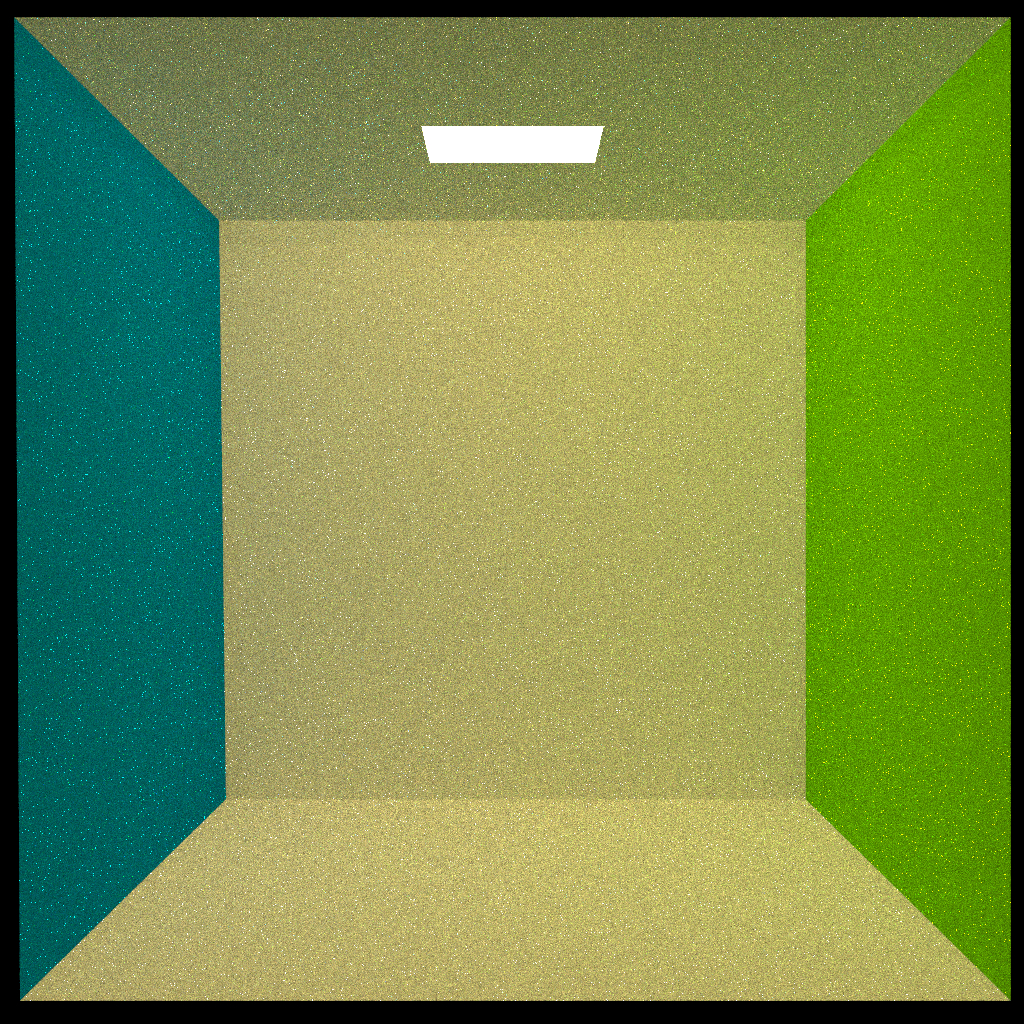
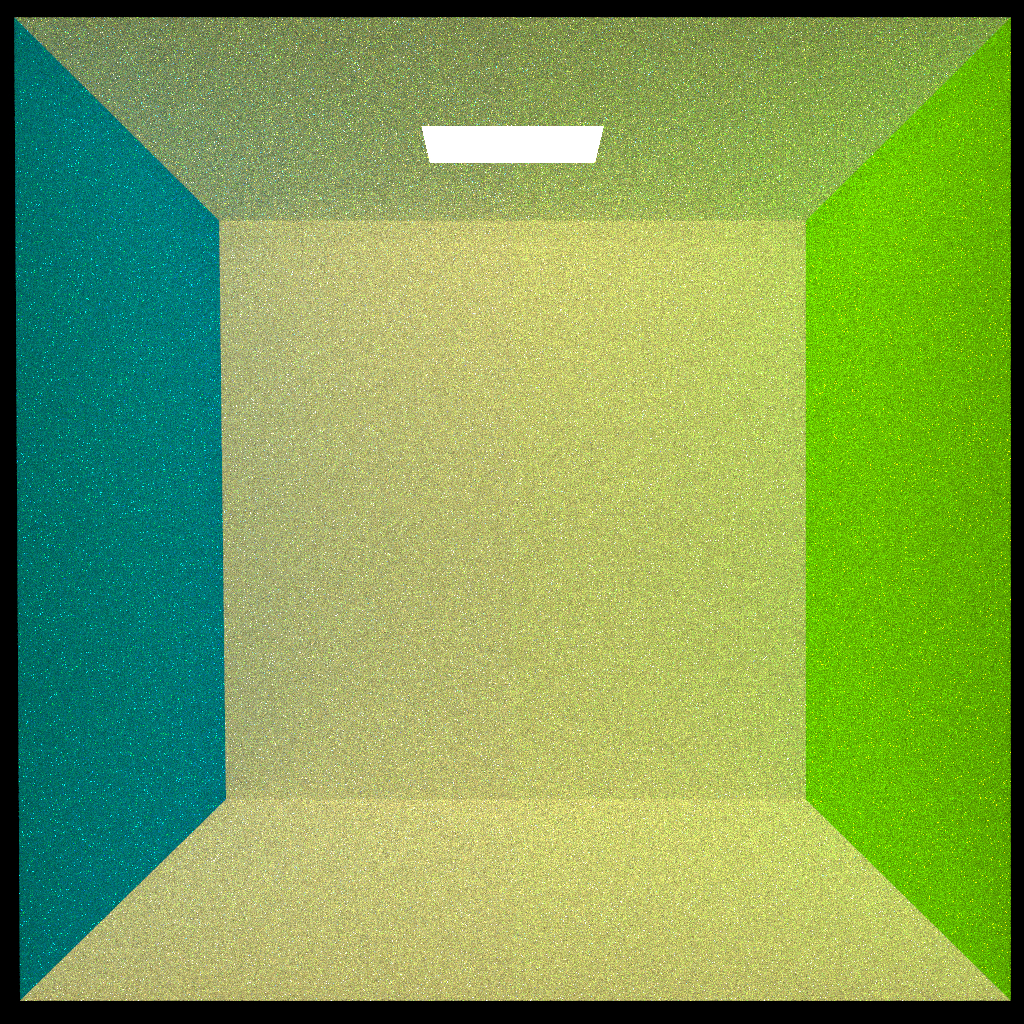
!!!

diff --git a/main.cpp b/main.cpp
@@ -100,7 +100,7 @@ int main() {
 
 				Ray r = cam->pixelRay(i, j);
 
-				if (i == 224 && j == cam->Height() - 197) {
+				if (i == 72 && j == cam->Height() - 37) {
 
 					bool xx = true;
 
@@ -363,6 +363,7 @@ vec3 MISCombine(std::vector<PathPoint>& cameraPath, vec3 cameraDirection, std::v
 	vec3 MISResult = vec3(0);
 	int* paths = new int[cameraPath.size() + lightPath.size()]();
 	vec3* pathResult = new vec3[cameraPath.size() + lightPath.size()]();
+	float* pathPDF = new float[cameraPath.size() + lightPath.size()]();
 	
 	for (int i = 0; i < cameraPath.size(); i++) {
 
@@ -410,6 +411,7 @@ vec3 MISCombine(std::vector<PathPoint>& cameraPath, vec3 cameraDirection, std::v
 				}
 
 				pathResult[i + j] += currentResult / (cameraPath[i].p * lightPath[j].p);
+				pathPDF[i + j] += (cameraPath[i].p * lightPath[j].p);
 
 			}
 
@@ -454,16 +456,17 @@ vec3 bidirectionalPathTracing(IntersectionPoint IP, vec3 wo) {
 	lightPath.clear();
 
 	light->uniformSampling(tmpIP);
-	lightPath.push_back(PathPoint(tmpIP, 1.0f / lightA));
+	lightPath.push_back(PathPoint(tmpIP, 1.0f / light->area()));
 	light->randomLightTracingRay(tmpIP, lightRay, p);
 	//p *= max(dot(lightRay.direction(), tmpIP.n), 0.0f);
 	lightPath.back().p /= max(dot(lightRay.direction(), tmpIP.n), 0.0f);
 	IT = intersectionTypeCheck(lightRay, tmpT, tmpIP);
+	//p /= tmpT * tmpT;
 	lightPath.back().p *= tmpT * tmpT;
+	RR = rand() * 1.0f / RAND_MAX;
+	if (IT == HITOBJECT && RR < RRThreshold) {
 
-	if (IT == HITOBJECT) {
-
-		lightPath.push_back(PathPoint(tmpIP, p * lightPath.back().p));
+		lightPath.push_back(PathPoint(tmpIP, p * RRThreshold * lightPath.back().p));
 		vec3 wi = lightRay.direction() * -1.0f;
 		vec3 wo;
 		RR = rand() * 1.0f / RAND_MAX;

diff --git a/material.h b/material.h
@@ -85,8 +85,8 @@ public:
         vec3 z = normalize(cross(y, wo));
         vec3 x = normalize(cross(y, z));
 
-        float sampleDiffuse = rand() * 1.0f / RAND_MAX;
-        //float sampleDiffuse = 0.0f;
+        //float sampleDiffuse = rand() * 1.0f / RAND_MAX;
+        float sampleDiffuse = 0.0f;
         vec3 kd = diffuse * sampleTexture(IP.uv.x, IP.uv.y);
         vec3 ks = specular;
         if (sampleDiffuse <= kd[rgb]) {
